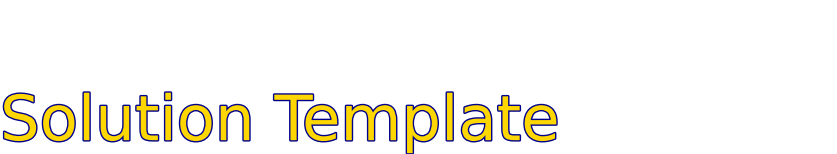
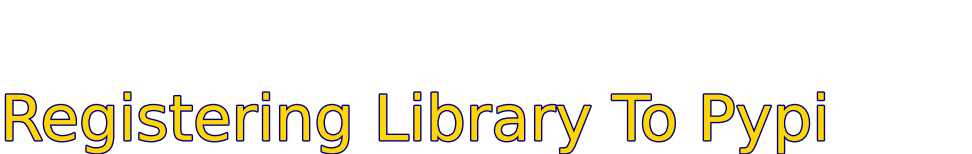
Automated 2025-05-06 commit

Changed region(s): [[0.0, 0.5974, 0.8698, 1.0]]

diff --git a/readme.md b/readme.md
@@ -1,35 +1,83 @@
+![Image image_filename](solution_sign.png)
+    
+# Registering Library To Pypi 
 
-# Registering Library To Pypi - Register your python libraries to pypi to make them pip and uv installable
+## Register your python libraries to pypi to make them pip and uv installable
 
-![Code Logo](code.png)
-## Description
+    
+![Solution](code.png)
+
+    
 
 Welcome to the solution **Registering Library To Pypi** - an example for your projects
 
 Register your python libraries to pypi to make them pip and uv installable
+
+ 
+## 🧠 Registering library to pypi
+The **registering_library_to_pypi** is designed to modularize and accelerate the development of AI driven solutions. 
+
+
+
+
+# 🧩 Registering Libraries
+
+#### A modular, AI first solution scaffold  
+
+> Created by **ThriveAI  ...      Joe Eberle**  
+> 🗓 Started: April 18, 2025 
+> 📫 Contact: [josepheberle@outlook.com](mailto:josepheberle@outlook.com)  
+> 🔗 GitHub: [JoeEberle](https://github.com/JoeEberle/)
+
+
+
+<br>
+
+![Solution](code.png)
+
     
-## Features
+![Solution](code.png)
+
+    
+## Getting Started
+
+The goal of this solution is to **Jump Start** your development and have you up and running in 30 minutes. 
+
+To get started with the **Registering Library To Pypi** solution repository, follow these steps:
+1. Clone the repository to your local machine.
+2. Install the required dependencies listed at the top of the notebook.
+3. Explore the example code provided in the repository and experiment.
+4. Run the notebook and make it your own - **EASY !**
+    
+## Solution Features
+
 - Easy to understand and use  
 - Easily Configurable 
 - Quickly start your project with pre-built templates
 - Its Fast and Automated
+- Saves You Time 
+
+
+
+## ⚙ Key Features
+
+- ✅ **Self Documenting** Automatically identifies and annotates major steps in a notebook, making the codebase readable and well structured.
+- ✅ **Self Testing** Includes built in **unit tests** for each function to validate logic and ensure code reliability.
+- ✅ **Easily Configurable** Uses a simple **config.ini** file for centralized settings and easy customization through key value pairs.
+- ✅ **Talking Code** explains itself through inline commentary, helping you understand both **what** it does and **why** it does it.
+- ✅ **Self Logging** extends Python’s standard **logging** module for **step by step runtime insights**.
+- ✅ **Self Debugging** Includes debugging hooks and detailed error tracing to simplify development and troubleshooting.
+- ✅ **Low Code or  No Code** Designed to minimize complexity — most full solutions are under 50 lines of code.
+- ✅ **Educational** Each template includes educational narrative and background context to support learning, teaching, and collaborative development.
+
     
-## Notebook Features
-- Self Documenting 
-- Self Testing 
-- Easily Configurable
-- Includes Talking Code - The code explains itself
-- Self Logging 
-- Self Debugging 
-- Low Code - or - No Code
-- Educational 
+## List of Figures
+ ![additional_image](registering_a_digital_library.png)  <br>![additional_image](registering_library_to_pypi.png)  <br>
     
-## Getting Started
-To get started with the **Registering Library To Pypi** solution, follow these steps:
-1. Clone the repository to your local machine.
-2. Install the required dependencies listed at the top of the notebook.
-3. Explore the example code provided in the repository and experiment.
-4. Run the notebook and your find your most Critical Data - EASY !
+
+## Github https://github.com/JoeEberle/ - Email  josepheberle@outlook.com 
     
-![Code Logo](developer.png)
+![Developer](developer.png)
+
+![Brand](brand.png)
     
